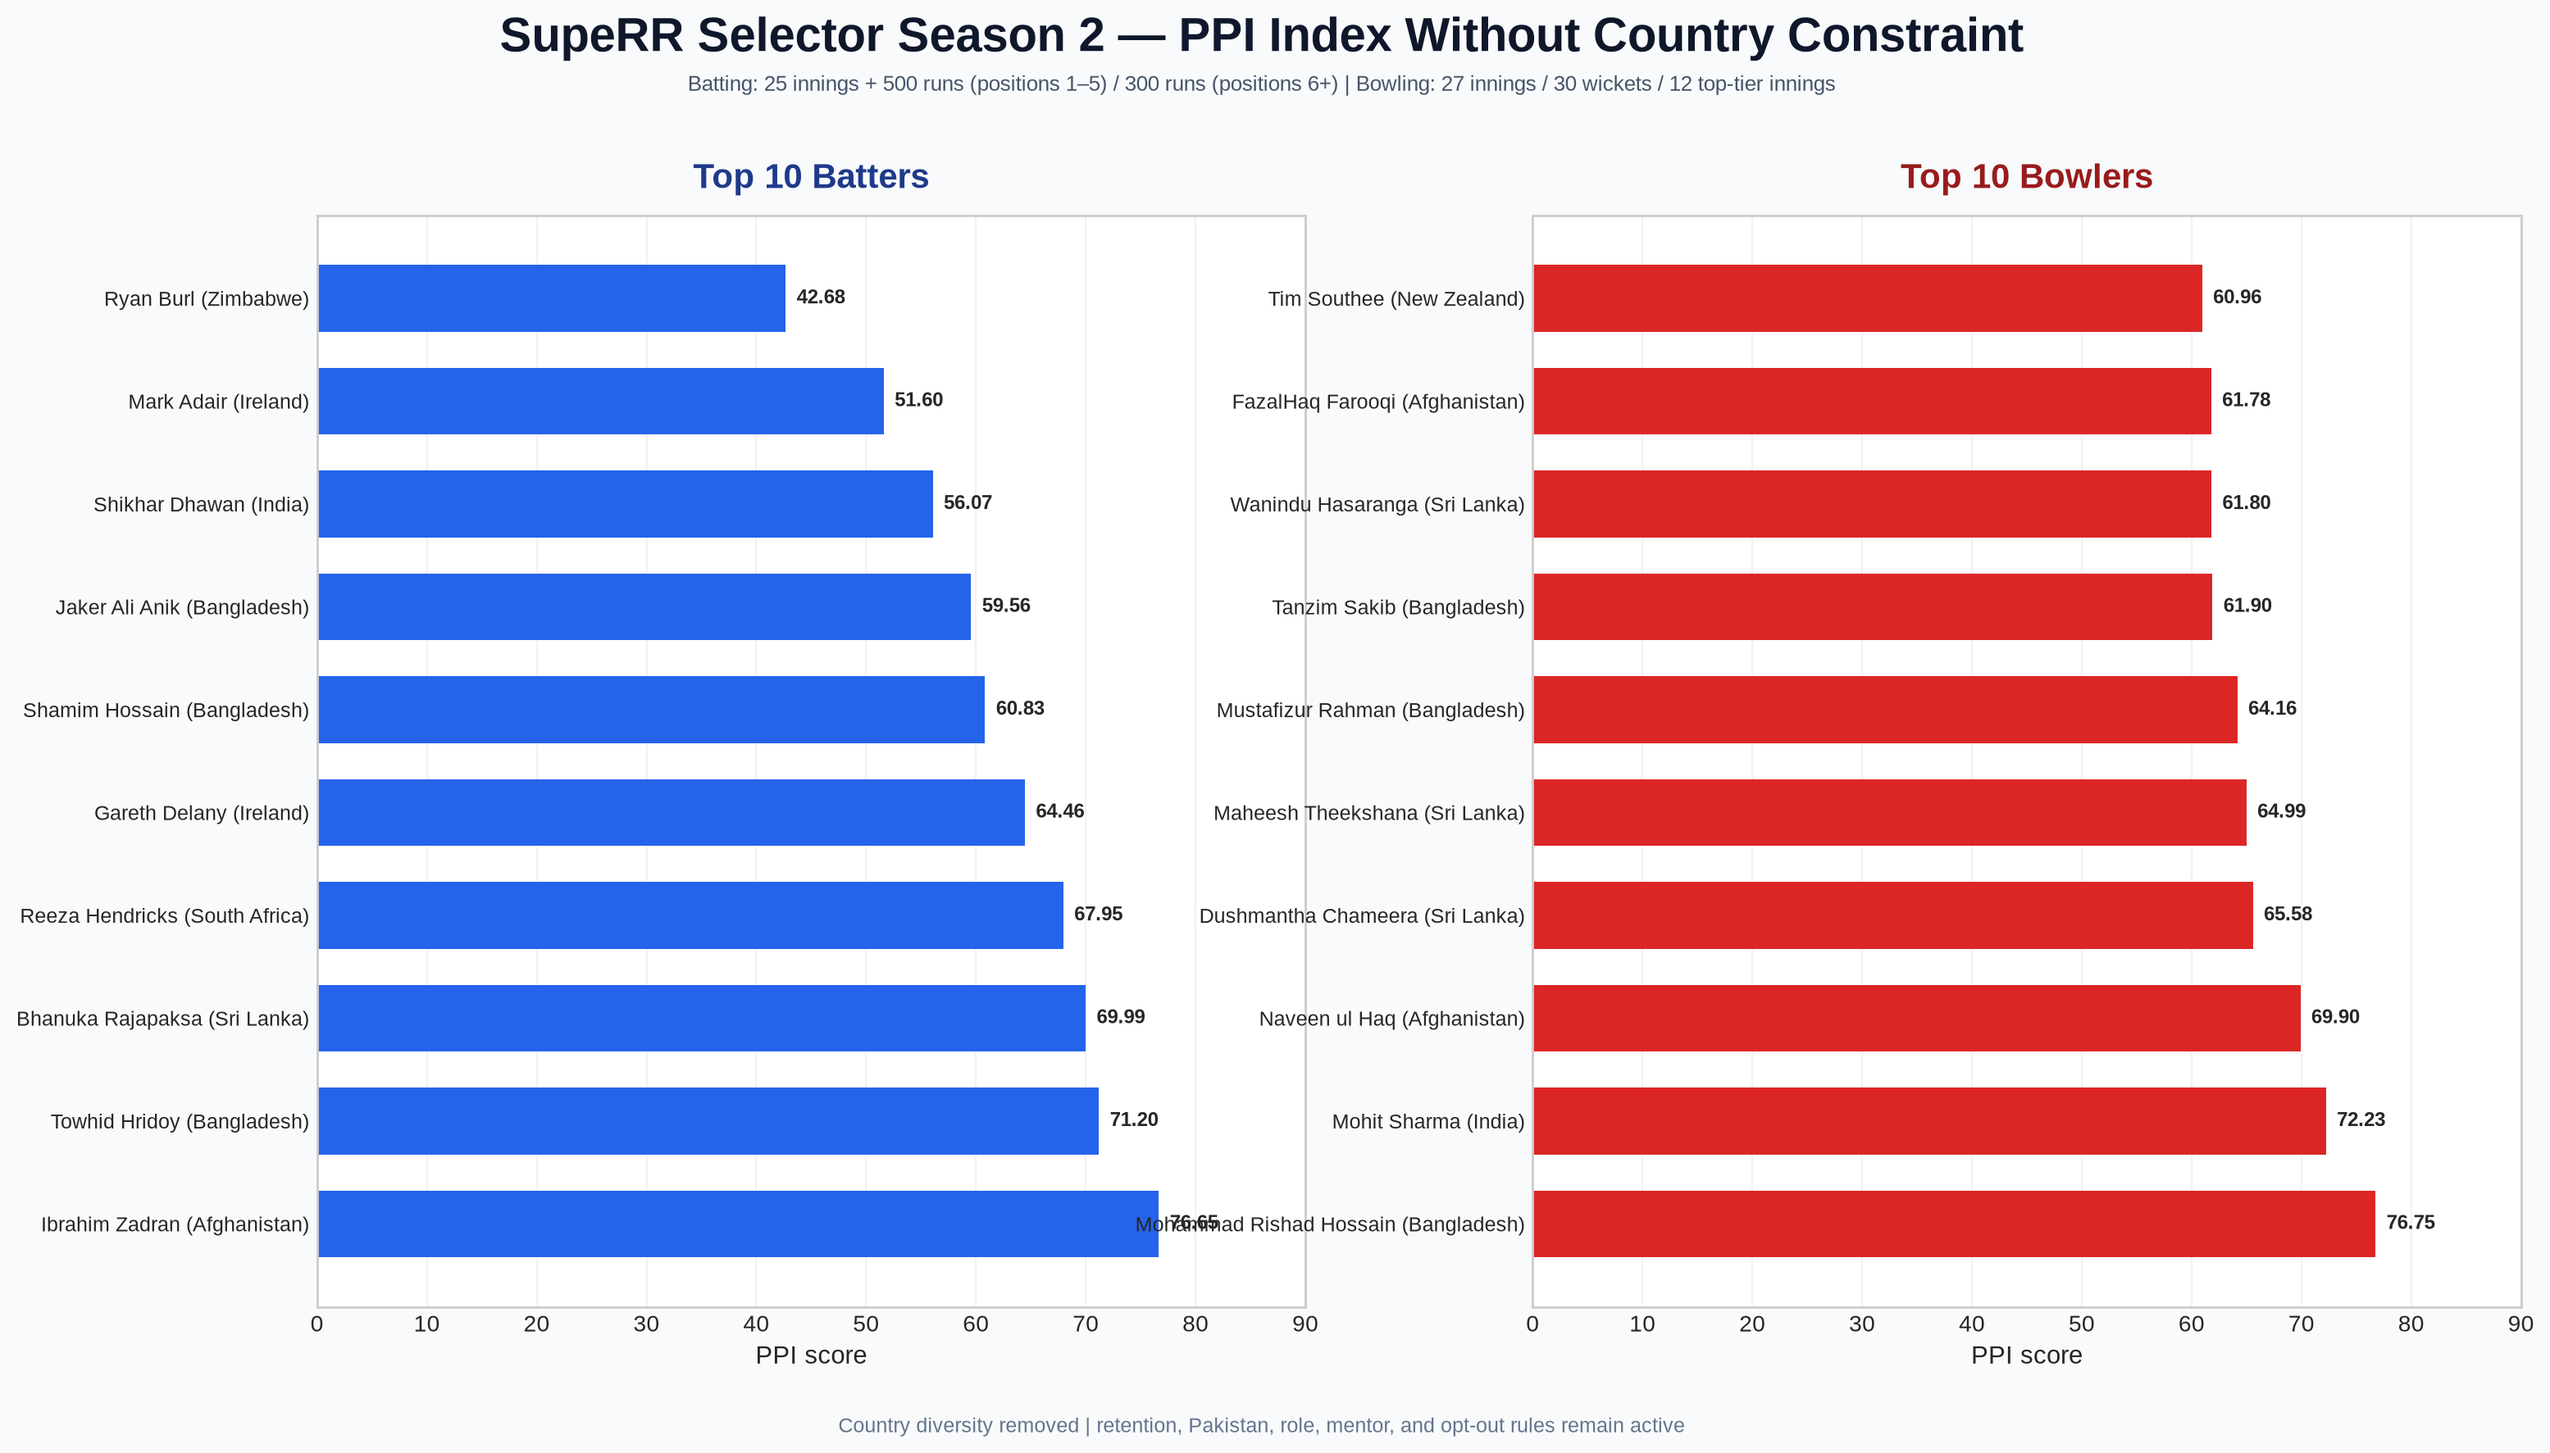
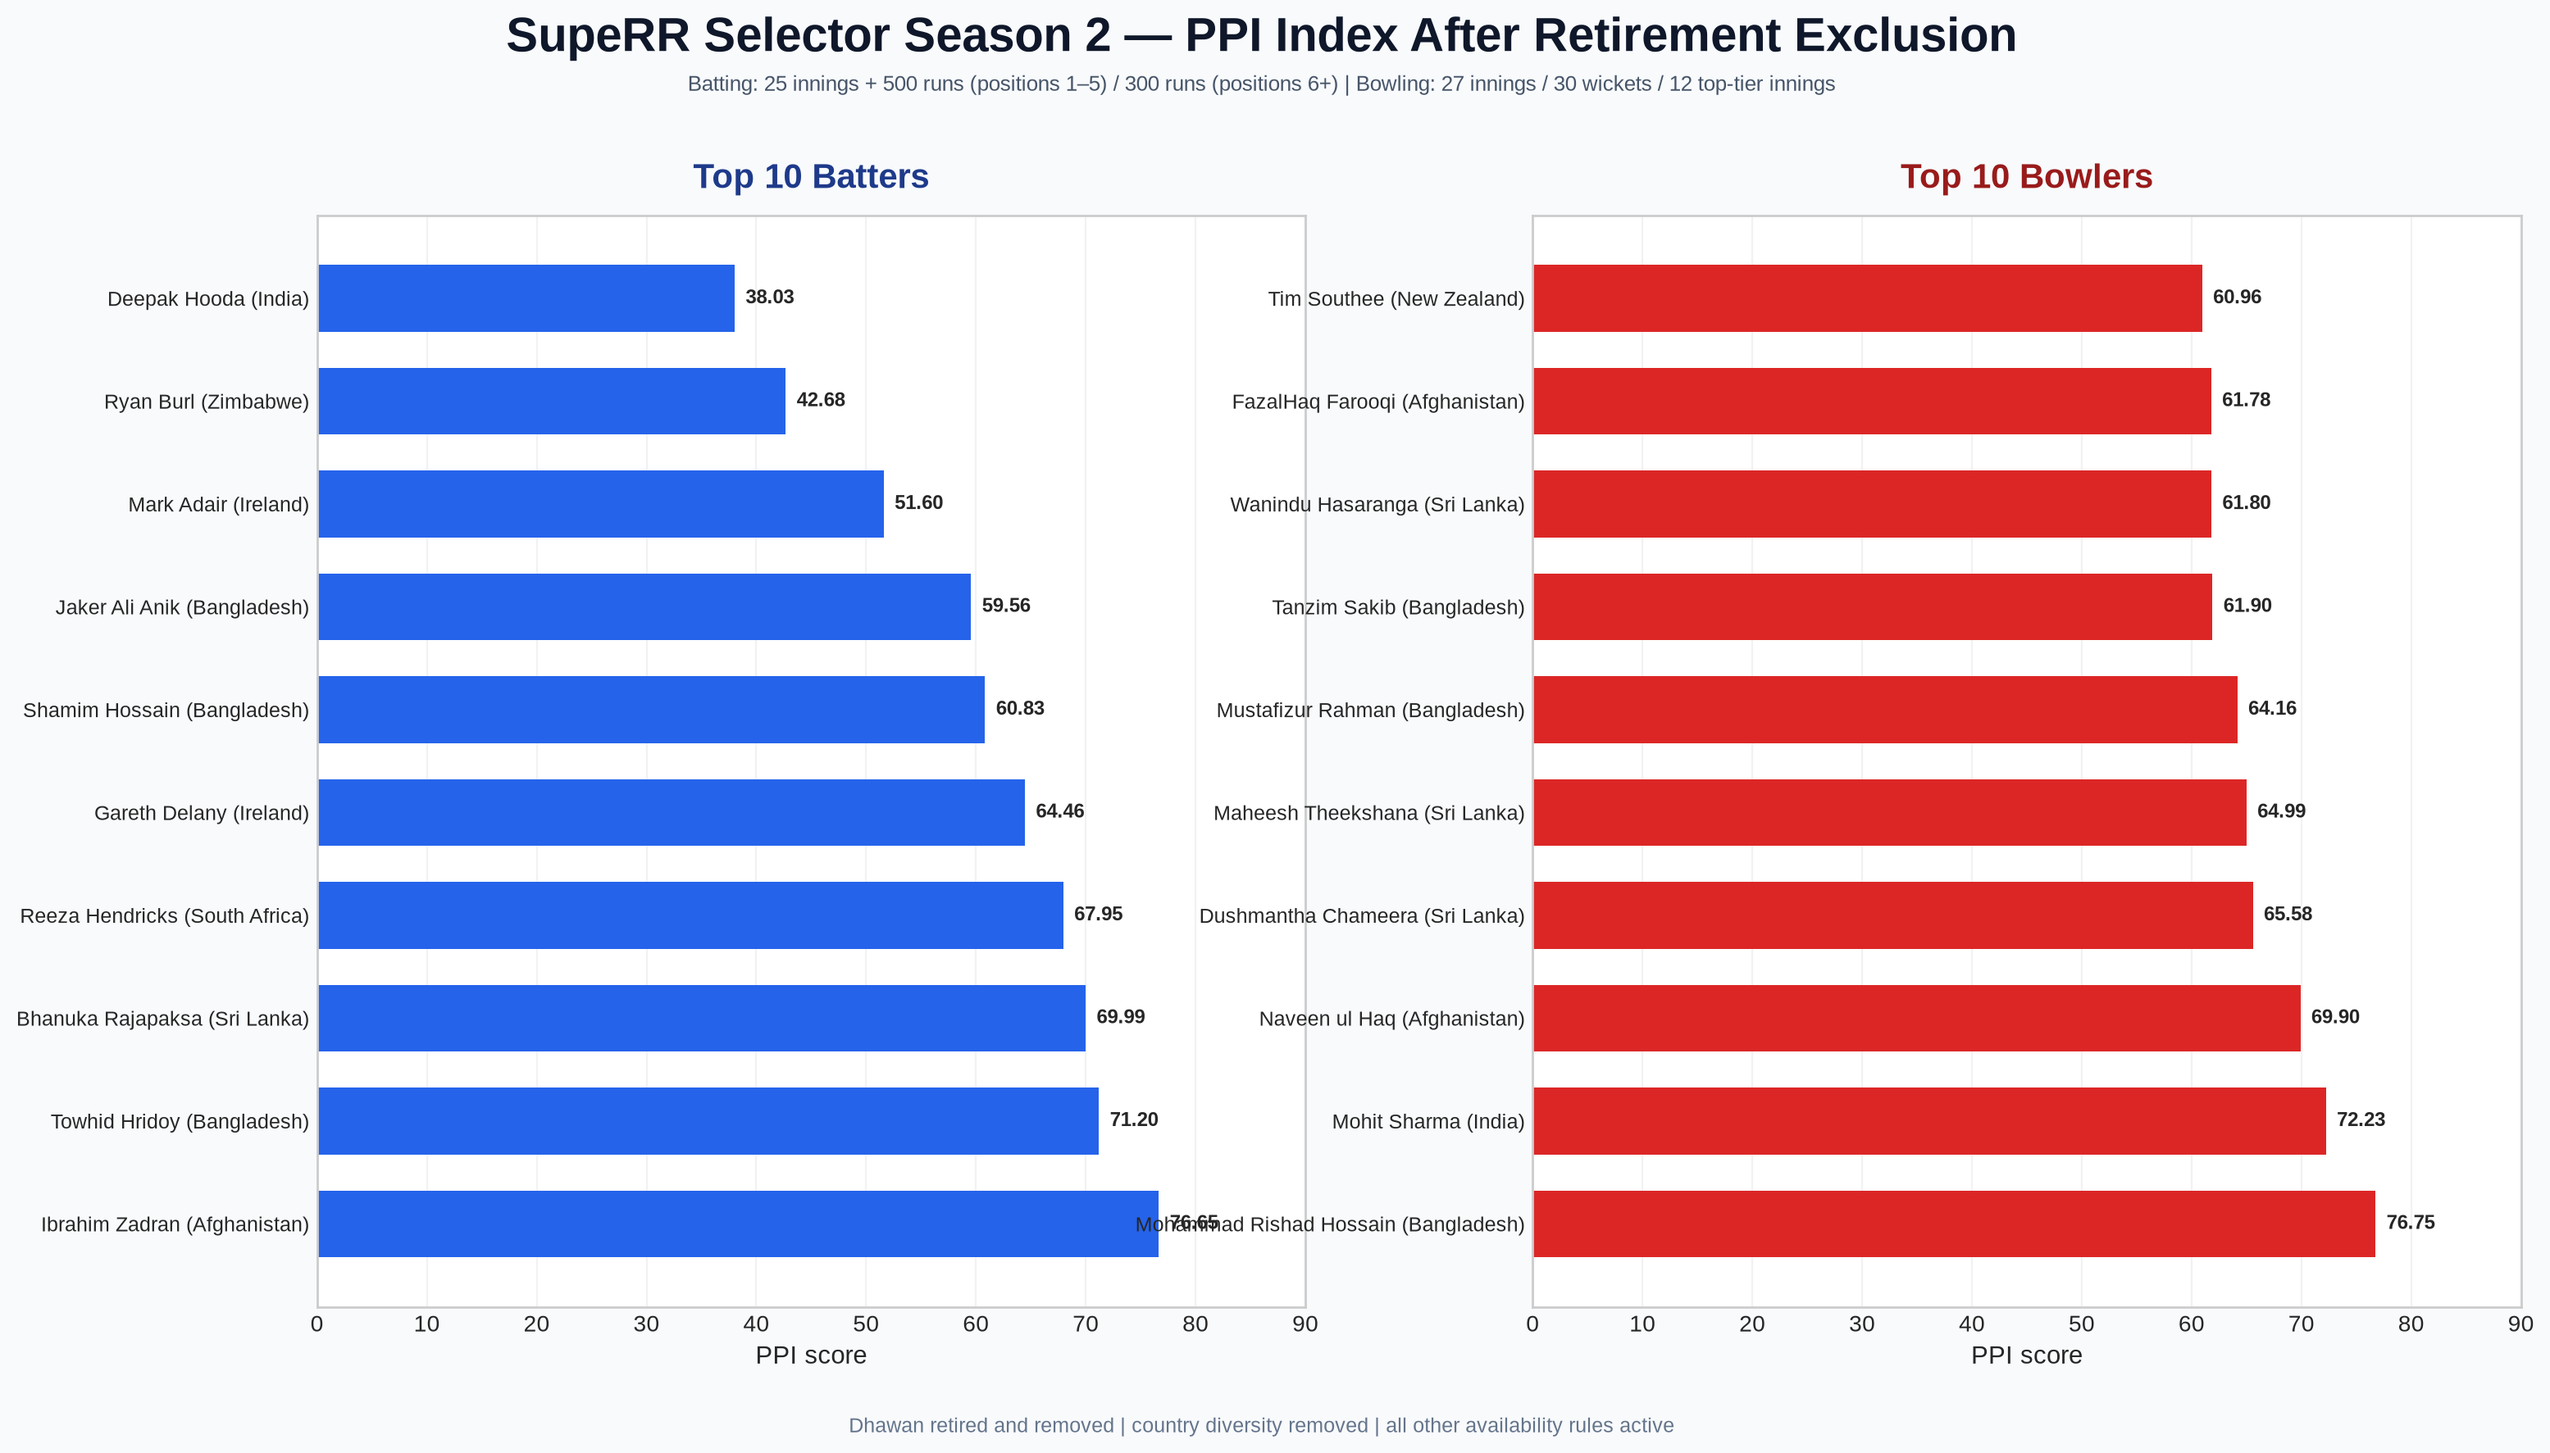
Exclude retired Shikhar Dhawan

diff --git a/scripts/post_retention_ppi.py b/scripts/post_retention_ppi.py
@@ -74,6 +74,7 @@ MANUAL_GLOBAL_EXCLUSIONS = {
     "Rasikh Salam": "Retained by Royal Challengers Bengaluru",
     "Namboori Tilak Varma": "Retained by Mumbai Indians",
     "Mitchell Starc": "Opted out of the IPL cycle",
+    "Shikhar Dhawan": "Retired — not an auction candidate",
 }
 
 MANUAL_BOWLER_EXCLUSIONS = {

diff --git a/outputs/post_retention/post_retention_ppi_index.md b/outputs/post_retention/post_retention_ppi_index.md
@@ -1,6 +1,6 @@
 # Post-retention PPI index
 
-**Status: Country constraint removed.**
+**Status: Shikhar Dhawan removed as retired.**
 
 ## Active filters
 
@@ -14,7 +14,7 @@
 - Minimum 30 wickets
 - Minimum 12 IPL/T20I innings
 
-The one-player-per-country and maximum-three-Indian-player constraints are removed. Final lists are ranked purely by PPI after all statistical, retention, Pakistan-player, role, mentor, and opt-out filters.
+Country diversity is not used as a constraint. Final lists are ranked by PPI after all eligibility, retention, Pakistan-player, role, mentor, retirement, and opt-out filters.
 
 ## Final top 10 batting list
 
@@ -27,9 +27,9 @@ The one-player-per-country and maximum-three-Indian-player constraints are remov
 | 5 | Gareth Delany | Ireland | 64.46 |
 | 6 | Shamim Hossain | Bangladesh | 60.83 |
 | 7 | Jaker Ali Anik | Bangladesh | 59.56 |
-| 8 | Shikhar Dhawan | India | 56.07 |
-| 9 | Mark Adair | Ireland | 51.60 |
-| 10 | Ryan Burl | Zimbabwe | 42.68 |
+| 8 | Mark Adair | Ireland | 51.60 |
+| 9 | Ryan Burl | Zimbabwe | 42.68 |
+| 10 | Deepak Hooda | India | 38.03 |
 
 ## Final top 10 bowling list
 
@@ -46,6 +46,6 @@ The one-player-per-country and maximum-three-Indian-player constraints are remov
 | 9 | FazalHaq Farooqi | Afghanistan | 61.78 |
 | 10 | Tim Southee | New Zealand | 60.96 |
 
-Both panels now contain exactly 10 players. Country labels are retained for transparency but are not used as a selection constraint.
+Shikhar Dhawan is explicitly excluded as retired and is recorded in `removed_retained_ppi_players.csv`.
 
 Full role-level pass/fail details are in `batting_eligibility_audit.csv`; bowling details are in `bowling_eligibility_audit.csv`.

diff --git a/outputs/post_retention/post_retention_notes.md b/outputs/post_retention/post_retention_notes.md
@@ -9,7 +9,7 @@ Mahendra Singh Dhoni is excluded as a CSK mentor, Rasikh Salam is excluded as re
 The same PPI formula is used. Batting eligibility requires at least 25 innings plus a role-based runs minimum: positions 1–5 (top/middle order) require 500 runs, while position 6 or lower (finishers) require 300 runs. Bowling eligibility requires at least 27 innings, 30 wickets, and 12 top-tier innings; the 660-ball overs minimum has been removed. The country-diversity constraint has been removed; final panels are ranked purely by PPI after all eligibility and availability filters.
 
 - Retained-player rows transcribed: 186
-- Expanded batting candidate pool before filter: 42; removed: 28; available: 10
+- Expanded batting candidate pool before filter: 42; removed: 29; available: 10
 - Expanded bowling candidate pool before filter: 88; removed: 54; available: 10
 - Final output size: 10 eligible batters and 10 eligible bowlers. The batting list is not padded when fewer than 10 players satisfy every rule.
 - Eligibility audit files report every individual minimum and failed rule.
